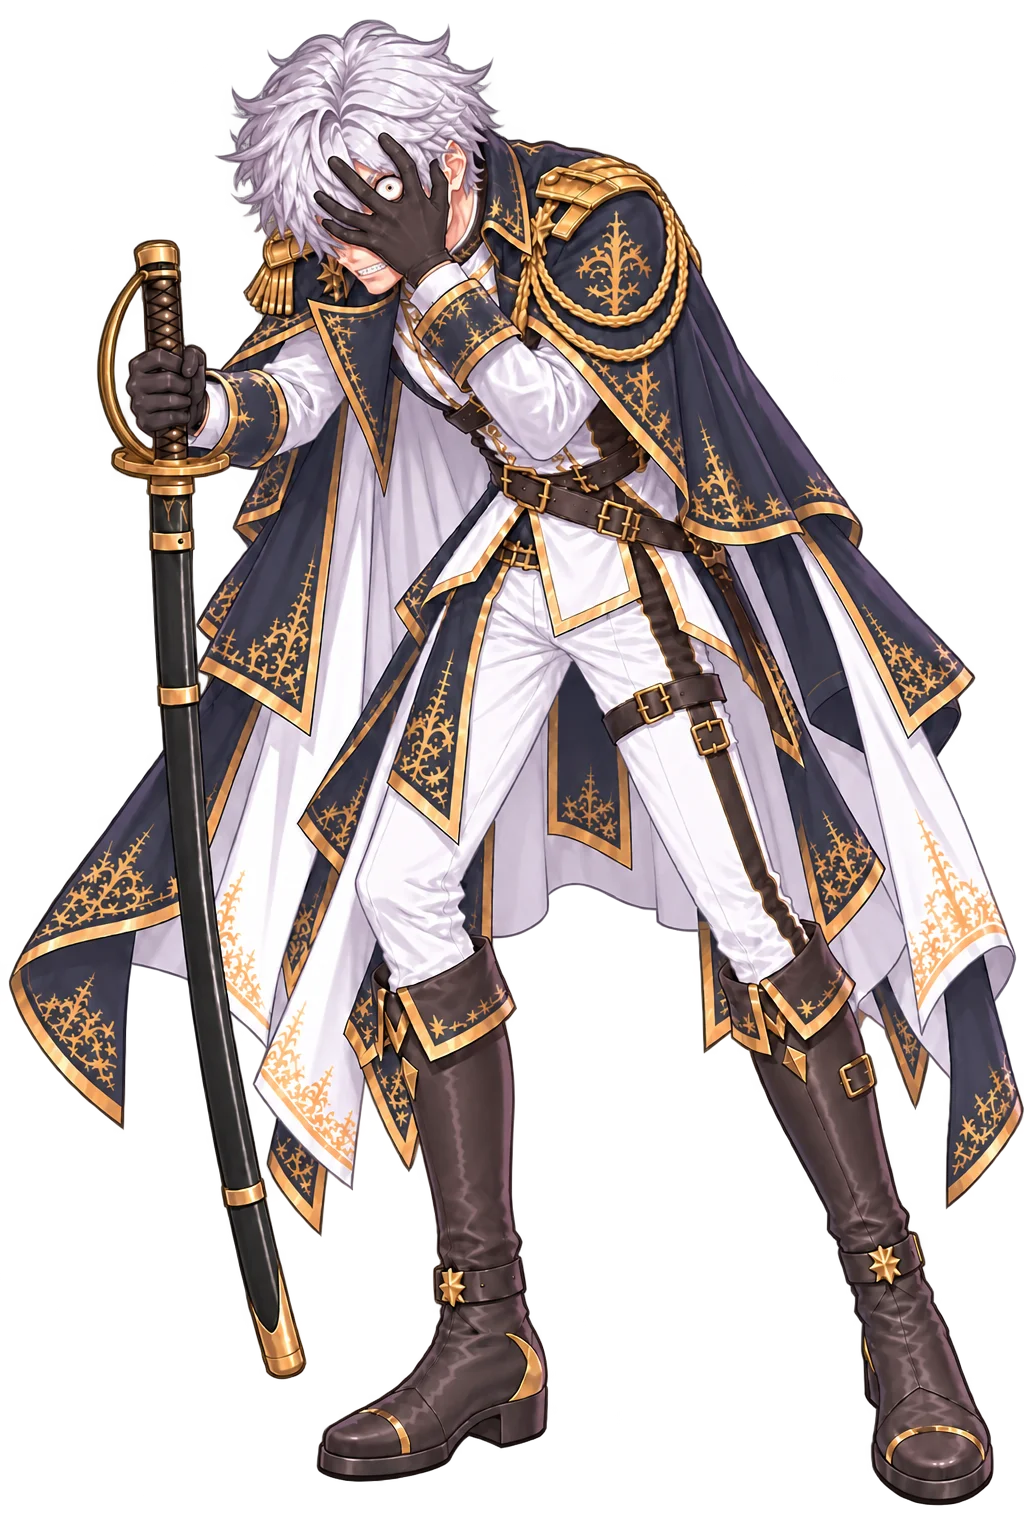
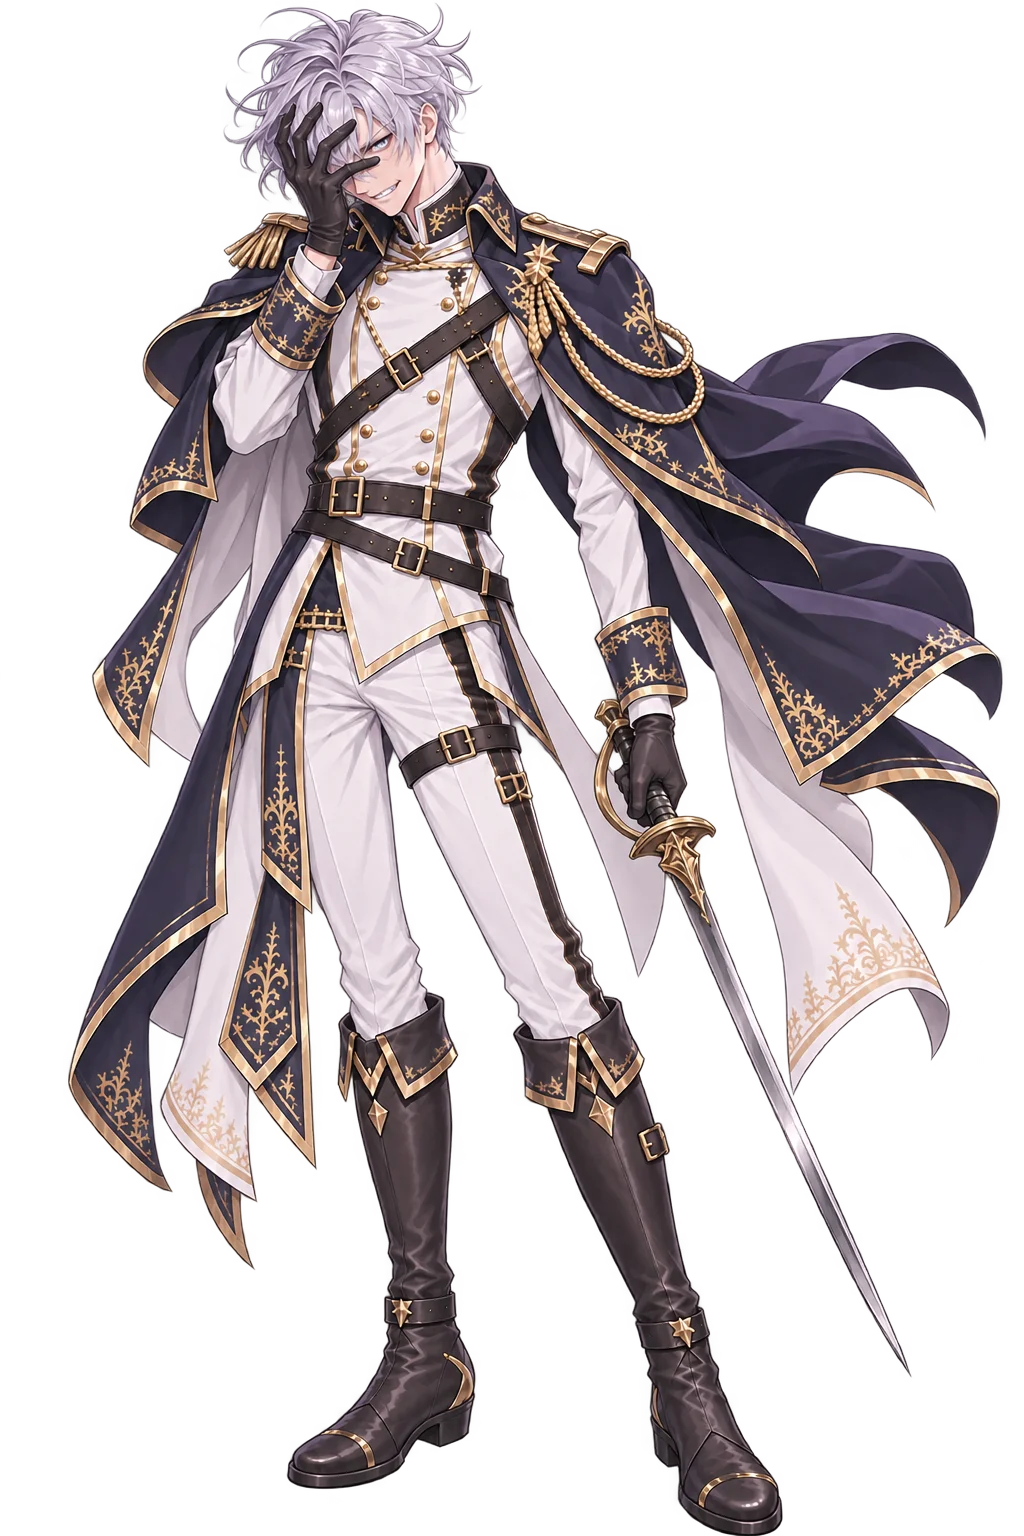
ver -2352 米夏 抓臉／暴走 改用 front 為底重畫：美形的瘋狂與破滅（扣臉冷眼、咬牙冷笑、拔刀），暴走加恨意紅光與碎裂紫光翼

diff --git a/index.html b/index.html
@@ -16,7 +16,7 @@
 <link rel="apple-touch-icon" href="resources/background/tivot_emblem.png?v=9220f8bb">
 <title>TIVOT</title>
 <!-- 全域鎖直向（真鎖 + 橫向擋板）；classic script，需在版面就緒前掛上 -->
-<script src="orientation.js?v=2351"></script>
+<script src="orientation.js?v=2352"></script>
 <!-- 離線包（ver -2256）：註冊 sw.js；主畫面 App 裡出現「下載離線包」鈕 -->
 <script src="offline.js"></script>
 <!-- ══ 效能探針・計數層（ver -850，Ray：「沒有辦法寫一個偵測程式進去看是什麼
@@ -65,74 +65,74 @@
 <script type="importmap">
 {
   "imports": {
-    "./audio.js": "./audio.js?v=2351",
-    "./config.js": "./config.js?v=2351",
-    "./i18n.js": "./i18n.js?v=2351",
-    "./main.js": "./main.js?v=2351",
-    "./offline.js": "./offline.js?v=2351",
-    "./orientation.js": "./orientation.js?v=2351",
-    "./state.js": "./state.js?v=2351",
-    "./sw.js": "./sw.js?v=2351",
-    "./telemetry.js": "./telemetry.js?v=2351",
-    "./modules/beatpick.js": "./modules/beatpick.js?v=2351",
-    "./modules/blink.js": "./modules/blink.js?v=2351",
-    "./modules/breath.js": "./modules/breath.js?v=2351",
-    "./modules/combat.js": "./modules/combat.js?v=2351",
-    "./modules/defense.js": "./modules/defense.js?v=2351",
-    "./modules/enemy.js": "./modules/enemy.js?v=2351",
-    "./modules/eyefx.js": "./modules/eyefx.js?v=2351",
-    "./modules/gear.js": "./modules/gear.js?v=2351",
-    "./modules/groundShadow.js": "./modules/groundShadow.js?v=2351",
-    "./modules/haptics.js": "./modules/haptics.js?v=2351",
-    "./modules/inn.js": "./modules/inn.js?v=2351",
-    "./modules/inspector.js": "./modules/inspector.js?v=2351",
-    "./modules/loot.js": "./modules/loot.js?v=2351",
-    "./modules/partner.js": "./modules/partner.js?v=2351",
-    "./modules/saint.js": "./modules/saint.js?v=2351",
-    "./modules/sakura.js": "./modules/sakura.js?v=2351",
-    "./modules/save.js": "./modules/save.js?v=2351",
-    "./modules/settings.js": "./modules/settings.js?v=2351",
-    "./modules/story.js": "./modules/story.js?v=2351",
-    "./modules/sway.js": "./modules/sway.js?v=2351",
-    "./modules/tone.js": "./modules/tone.js?v=2351",
-    "./modules/town.js": "./modules/town.js?v=2351",
-    "./modules/transition.js": "./modules/transition.js?v=2351",
-    "./modules/tutorial.js": "./modules/tutorial.js?v=2351",
-    "./modules/weapon.js": "./modules/weapon.js?v=2351",
-    "./script/bg_index.js": "./script/bg_index.js?v=2351",
-    "./script/blink.js": "./script/blink.js?v=2351",
-    "./script/clock.js": "./script/clock.js?v=2351",
-    "./script/enemies.js": "./script/enemies.js?v=2351",
-    "./script/evaluation.js": "./script/evaluation.js?v=2351",
-    "./script/eyefx.js": "./script/eyefx.js?v=2351",
-    "./script/inventory.js": "./script/inventory.js?v=2351",
-    "./script/loadout.js": "./script/loadout.js?v=2351",
-    "./script/mainScript.js": "./script/mainScript.js?v=2351",
-    "./script/progress.js": "./script/progress.js?v=2351",
-    "./script/shopcards.js": "./script/shopcards.js?v=2351",
-    "./script/shopstock.js": "./script/shopstock.js?v=2351",
-    "./script/speakers.js": "./script/speakers.js?v=2351",
-    "./script/sway.js": "./script/sway.js?v=2351",
-    "./script/town.js": "./script/town.js?v=2351",
-    "./script/weapons.js": "./script/weapons.js?v=2351",
-    "./i18n/en.js": "./i18n/en.js?v=2351",
-    "./i18n/es.js": "./i18n/es.js?v=2351",
-    "./i18n/ja.js": "./i18n/ja.js?v=2351",
-    "./i18n/scriptTr.js": "./i18n/scriptTr.js?v=2351",
-    "./i18n/zh.js": "./i18n/zh.js?v=2351",
-    "./i18n/script/es.classic.js": "./i18n/script/es.classic.js?v=2351",
-    "./i18n/script/es.js": "./i18n/script/es.js?v=2351",
-    "./i18n/ui/es.classic.js": "./i18n/ui/es.classic.js?v=2351",
-    "./i18n/ui/es.js": "./i18n/ui/es.js?v=2351"
+    "./audio.js": "./audio.js?v=2352",
+    "./config.js": "./config.js?v=2352",
+    "./i18n.js": "./i18n.js?v=2352",
+    "./main.js": "./main.js?v=2352",
+    "./offline.js": "./offline.js?v=2352",
+    "./orientation.js": "./orientation.js?v=2352",
+    "./state.js": "./state.js?v=2352",
+    "./sw.js": "./sw.js?v=2352",
+    "./telemetry.js": "./telemetry.js?v=2352",
+    "./modules/beatpick.js": "./modules/beatpick.js?v=2352",
+    "./modules/blink.js": "./modules/blink.js?v=2352",
+    "./modules/breath.js": "./modules/breath.js?v=2352",
+    "./modules/combat.js": "./modules/combat.js?v=2352",
+    "./modules/defense.js": "./modules/defense.js?v=2352",
+    "./modules/enemy.js": "./modules/enemy.js?v=2352",
+    "./modules/eyefx.js": "./modules/eyefx.js?v=2352",
+    "./modules/gear.js": "./modules/gear.js?v=2352",
+    "./modules/groundShadow.js": "./modules/groundShadow.js?v=2352",
+    "./modules/haptics.js": "./modules/haptics.js?v=2352",
+    "./modules/inn.js": "./modules/inn.js?v=2352",
+    "./modules/inspector.js": "./modules/inspector.js?v=2352",
+    "./modules/loot.js": "./modules/loot.js?v=2352",
+    "./modules/partner.js": "./modules/partner.js?v=2352",
+    "./modules/saint.js": "./modules/saint.js?v=2352",
+    "./modules/sakura.js": "./modules/sakura.js?v=2352",
+    "./modules/save.js": "./modules/save.js?v=2352",
+    "./modules/settings.js": "./modules/settings.js?v=2352",
+    "./modules/story.js": "./modules/story.js?v=2352",
+    "./modules/sway.js": "./modules/sway.js?v=2352",
+    "./modules/tone.js": "./modules/tone.js?v=2352",
+    "./modules/town.js": "./modules/town.js?v=2352",
+    "./modules/transition.js": "./modules/transition.js?v=2352",
+    "./modules/tutorial.js": "./modules/tutorial.js?v=2352",
+    "./modules/weapon.js": "./modules/weapon.js?v=2352",
+    "./script/bg_index.js": "./script/bg_index.js?v=2352",
+    "./script/blink.js": "./script/blink.js?v=2352",
+    "./script/clock.js": "./script/clock.js?v=2352",
+    "./script/enemies.js": "./script/enemies.js?v=2352",
+    "./script/evaluation.js": "./script/evaluation.js?v=2352",
+    "./script/eyefx.js": "./script/eyefx.js?v=2352",
+    "./script/inventory.js": "./script/inventory.js?v=2352",
+    "./script/loadout.js": "./script/loadout.js?v=2352",
+    "./script/mainScript.js": "./script/mainScript.js?v=2352",
+    "./script/progress.js": "./script/progress.js?v=2352",
+    "./script/shopcards.js": "./script/shopcards.js?v=2352",
+    "./script/shopstock.js": "./script/shopstock.js?v=2352",
+    "./script/speakers.js": "./script/speakers.js?v=2352",
+    "./script/sway.js": "./script/sway.js?v=2352",
+    "./script/town.js": "./script/town.js?v=2352",
+    "./script/weapons.js": "./script/weapons.js?v=2352",
+    "./i18n/en.js": "./i18n/en.js?v=2352",
+    "./i18n/es.js": "./i18n/es.js?v=2352",
+    "./i18n/ja.js": "./i18n/ja.js?v=2352",
+    "./i18n/scriptTr.js": "./i18n/scriptTr.js?v=2352",
+    "./i18n/zh.js": "./i18n/zh.js?v=2352",
+    "./i18n/script/es.classic.js": "./i18n/script/es.classic.js?v=2352",
+    "./i18n/script/es.js": "./i18n/script/es.js?v=2352",
+    "./i18n/ui/es.classic.js": "./i18n/ui/es.classic.js?v=2352",
+    "./i18n/ui/es.js": "./i18n/ui/es.js?v=2352"
   }
 }
 </script>
 <!-- BUST:END -->
-<link rel="stylesheet" href="style.css?v=2351">
+<link rel="stylesheet" href="style.css?v=2352">
   <!-- 拾得道具／道具欄／商店／懸賞榜（ver -380 抽出，飛行頁共用同一份）。
        ⚠ `data-lootsheet` 是給 `modules/loot.js` 認的：它看到已經掛過就不再掛一次。
          飛行頁沒有這一行，由那支模組自己掛上去。 -->
-  <link rel="stylesheet" href="css/lootsheet.css?v=2351" data-lootsheet="1">
+  <link rel="stylesheet" href="css/lootsheet.css?v=2352" data-lootsheet="1">
 <!-- 主畫面 App（standalone）偵測：首繪前在 <html> 蓋 .standalone，
      供 CSS 修 iOS 26 版面視窗少算頂部安全區高度（底部露黑帶）的問題 -->
 <script>
@@ -778,6 +778,6 @@
      ⚠ src 是**按下去才給**的（lazy）：不然每次開機都要多載一整個飛行頁。 -->
 <iframe id="flightFrame" title="飛行"></iframe>
 
-<script type="module" src="main.js?v=2351"></script>
+<script type="module" src="main.js?v=2352"></script>
 </body>
 </html>

diff --git a/flight/index.html b/flight/index.html
@@ -3,7 +3,7 @@
 <head>
 <meta charset="utf-8">
 <meta name="viewport" content="width=device-width,initial-scale=1,maximum-scale=1,user-scalable=no,viewport-fit=cover">
-<script src="../orientation.js?v=2351"></script>
+<script src="../orientation.js?v=2352"></script>
 <script>
 /* 介面字譯文（ver -1909）：這一頁是非模組，程式一開跑就讀字串 —— 所以譯文表要**同步**載
    （document.write，只在選了有譯文的語言時）。語言判定與 i18n.js 的 LANG 同一套
@@ -11,7 +11,7 @@
 (function(){
   var l=null; try{ l=localStorage.getItem('tivot.lang'); }catch(e){}
   if(!l){ try{ var n=(navigator.languages&&navigator.languages[0])||navigator.language||''; if(String(n).toLowerCase().indexOf('es')===0) l='es'; }catch(e){} }
-  if(['es'].indexOf(l)>=0) document.write('<script src="../i18n/script/'+l+'.classic.js?v=2351"><\/script><script src="../i18n/ui/'+l+'.classic.js?v=2351"><\/script>');
+  if(['es'].indexOf(l)>=0) document.write('<script src="../i18n/script/'+l+'.classic.js?v=2352"><\/script><script src="../i18n/ui/'+l+'.classic.js?v=2352"><\/script>');
 })();
 function i18nT(s){ var t=window.__TIVOT_TR; return (t && typeof s==='string' && t[s]!=null) ? t[s] : s; }
 document.addEventListener('DOMContentLoaded', function(){
@@ -236,7 +236,7 @@ document.addEventListener('DOMContentLoaded', function(){
   /* ver -2217：門圖含楣（kerberos_gate，＝主遊戲同一張）—— 底圖往上延伸到楣的上緣（--fk-gate-top，負值，layoutFKerb 寫）。
      畫在 ::before：門的子元素（紋章／箭／鉚釘）排在它之後，自然疊在上面。 */
   #fkerbDoor::before{content:'';position:absolute;left:0;right:0;top:var(--fk-gate-top,0px);bottom:0;
-    background-image:url('../resources/vfx/kerberos_gate.webp?v=2351');
+    background-image:url('../resources/vfx/kerberos_gate.webp?v=2352');
     background-repeat:no-repeat;background-size:100% 100%;pointer-events:none;}
   #fkerb.rise #fkerbDoor{transform:translateY(calc(var(--fkerb-rise,0px) * -1));}
   /* 楣與其餘零件：全部是門的子元素＝同一剛體，門上推它們跟著上去
@@ -259,8 +259,8 @@ document.addEventListener('DOMContentLoaded', function(){
       radial-gradient(circle at 50% 22%, rgba(0,0,0,.72) 40%, rgba(0,0,0,0) 78%);
     box-shadow:inset 0 3px 7px rgba(0,0,0,.85);}
   #fkerbGear .fkg-shine{position:absolute;inset:0;mix-blend-mode:screen;opacity:.8;
-    -webkit-mask-image:url("../resources/vfx/kerberos_gear.webp?v=2351");
-    mask-image:url("../resources/vfx/kerberos_gear.webp?v=2351");
+    -webkit-mask-image:url("../resources/vfx/kerberos_gear.webp?v=2352");
+    mask-image:url("../resources/vfx/kerberos_gear.webp?v=2352");
     -webkit-mask-size:100% 100%;mask-size:100% 100%;
     -webkit-mask-repeat:no-repeat;mask-repeat:no-repeat;
     background:linear-gradient(114deg,
@@ -280,8 +280,8 @@ document.addEventListener('DOMContentLoaded', function(){
     filter:drop-shadow(0 3px 7px rgba(0,0,0,.9)) drop-shadow(0 0 2px rgba(0,0,0,.8));}
   #fkerbPend .fkp-shine{position:absolute;inset:0;pointer-events:none;
     mix-blend-mode:screen;opacity:.85;
-    -webkit-mask-image:url("../resources/vfx/kerberos_pendant.webp?v=2351");
-    mask-image:url("../resources/vfx/kerberos_pendant.webp?v=2351");
+    -webkit-mask-image:url("../resources/vfx/kerberos_pendant.webp?v=2352");
+    mask-image:url("../resources/vfx/kerberos_pendant.webp?v=2352");
     -webkit-mask-size:100% 100%;mask-size:100% 100%;
     -webkit-mask-repeat:no-repeat;mask-repeat:no-repeat;
     background:linear-gradient(114deg,
@@ -646,23 +646,23 @@ img:not([src]), img[src=""], img.img-broken{visibility:hidden !important;}
        ⚠ 要有，否則交棒那一格齒輪會憑空冒出來（同吊墜的理由）。
        ⚠ 排在 `.fk-plate` 之前 ＝ 團徽之下、槍棺之上。 -->
   <div id="fkerbGear"><i class="fkg-well"></i>
-    <img src="../resources/vfx/kerberos_gear.webp?v=2351" alt=""><i class="fkg-shine"></i></div>
+    <img src="../resources/vfx/kerberos_gear.webp?v=2352" alt=""><i class="fkg-shine"></i></div>
   <div id="fkerbGearSm"><i class="fkg-well"></i>
-    <img src="../resources/vfx/kerberos_gear.webp?v=2351" alt=""></div>
-  <img class="fk-plate" src="../resources/vfx/kerberos_plate.webp?v=2351" alt="">
-  <img class="fk-arrow n" src="../resources/vfx/kerberos_arrow.webp?v=2351" alt="">
-  <img class="fk-arrow e" src="../resources/vfx/kerberos_arrow.webp?v=2351" alt="">
-  <img class="fk-arrow s" src="../resources/vfx/kerberos_arrow.webp?v=2351" alt="">
-  <img class="fk-arrow w" src="../resources/vfx/kerberos_arrow.webp?v=2351" alt="">
-  <img class="fk-rivet r10" src="../resources/vfx/kerberos_rivet.webp?v=2351" alt="">
-  <img class="fk-rivet r2"  src="../resources/vfx/kerberos_rivet.webp?v=2351" alt="">
-  <img class="fk-rivet r4"  src="../resources/vfx/kerberos_rivet.webp?v=2351" alt="">
-  <img class="fk-rivet r8"  src="../resources/vfx/kerberos_rivet.webp?v=2351" alt="">
+    <img src="../resources/vfx/kerberos_gear.webp?v=2352" alt=""></div>
+  <img class="fk-plate" src="../resources/vfx/kerberos_plate.webp?v=2352" alt="">
+  <img class="fk-arrow n" src="../resources/vfx/kerberos_arrow.webp?v=2352" alt="">
+  <img class="fk-arrow e" src="../resources/vfx/kerberos_arrow.webp?v=2352" alt="">
+  <img class="fk-arrow s" src="../resources/vfx/kerberos_arrow.webp?v=2352" alt="">
+  <img class="fk-arrow w" src="../resources/vfx/kerberos_arrow.webp?v=2352" alt="">
+  <img class="fk-rivet r10" src="../resources/vfx/kerberos_rivet.webp?v=2352" alt="">
+  <img class="fk-rivet r2"  src="../resources/vfx/kerberos_rivet.webp?v=2352" alt="">
+  <img class="fk-rivet r4"  src="../resources/vfx/kerberos_rivet.webp?v=2352" alt="">
+  <img class="fk-rivet r8"  src="../resources/vfx/kerberos_rivet.webp?v=2352" alt="">
   <!-- 吊墜（ver -412）：與主遊戲同一套（見 index.html 的 #kerbPend 與 style.css）。
        ⚠ 這一頁**必須也有** —— 遭遇時門是在這裡推上來的，交棒之後主遊戲那一半才接手；
          只有一邊掛吊墜的話，交棒那一格會憑空多出一個東西。 -->
   <div id="fkerbPend"><div class="fkp-swing"><div class="fkp-idle">
-    <img src="../resources/vfx/kerberos_pendant.webp?v=2351" alt=""><i class="fkp-shine"></i>
+    <img src="../resources/vfx/kerberos_pendant.webp?v=2352" alt=""><i class="fkp-shine"></i>
   </div></div></div>
 </div></div>
 <div id="boot">
@@ -684,11 +684,11 @@ img:not([src]), img[src=""], img.img-broken{visibility:hidden !important;}
   <div id="bMsg"><small id="bootMsg"></small></div>
 </div>
 
-<script src="settlement.js?v=2351"></script>
+<script src="settlement.js?v=2352"></script>
 <!-- 閒聊對話的**內容**獨立成一支：方便加台詞、加觸發條件而不必碰引擎。
      ⚠ 一般 <script>（非 module）→ TALKS / talkPeriod / talkPick 是全域，
        而且會在下面這段 inline 之前執行完，所以 inline 內可以直接用。 -->
-<script src="talks.js?v=2351"></script>
+<script src="talks.js?v=2352"></script>
 <script>
 /* 破圖框一律不畫（ver -1881，同主頁 main.js 那一支，這一頁是另一個 document）。 */
 document.addEventListener('error', e=>{ const t=e.target; if(t && t.tagName==='IMG') t.classList.add('img-broken'); }, true);
@@ -764,7 +764,7 @@ const COLOR_URL  = 'silvermoon_terrain.png?v=b18827be'  + TERRAIN_V;
    以前是手寫的，於是從 -911 起就沒有人記得動它 —— 而 HUD 上的版本號正是 Ray
    在手機上確認「我現在跑的是哪一版」的唯一依據（鐵律 7：一個量一個計算點；
    ver -626：版本號不動就等於沒有版本號）。**不要手改。** */
-const FLIGHT_VER = 'ver -2351';
+const FLIGHT_VER = 'ver -2352';
 const MAP_SCALE  = 20;
 const INV_SCALE  = 1/MAP_SCALE;
 const PEAK_SCALE = 520;   // 高度圖 255 對應的世界高度（越大山越陡）

diff --git a/script/speakers.js b/script/speakers.js
@@ -1657,8 +1657,8 @@ export const ART = {
     draw:       { src:'resources/si/misha_si_draw.webp?v=68b1b653', top:6, bot:1534, fx:0.434 },   // ver -1728：Ray 新出的拔刀圖（姿勢換了，取景重量；美術 09-25）
     salute:     { src:'resources/si/misha_si_salute.webp', top:9, bot:1520, fx:0.447 },
     side:       { src:'resources/si/misha_si_side.webp', top:16, bot:1512, fx:0.37 },
-    '暴走':     { blink:'off', rescale:true, src:'resources/si/misha_si_coverfaceni.webp?v=3909aabc', top:176, bot:1230, fx:0.303 },   // ver -2351（Ray）：方形畫布 1254²（光翼才畫得完整）；正常比例的手（不帶裂紋）、咬牙、恨而銳利的紅光眼、大幅噴湧的碎裂紫光翼；top/bot 量人不量翼
-    '抓臉':     { blink:'off', src:'resources/si/misha_si_coverface.webp?v=b2d1ef48', top:20, bot:1505, fx:0.400 },   // ver -2351（Ray）：手掌蓋住半張臉、指縫露出暴走的眼、咬牙（wound 為底，畫風照原圖）
+    '暴走':     { blink:'off', rescale:true, src:'resources/si/misha_si_coverfaceni.webp?v=70bda315', top:16, bot:1224, fx:0.263 },   // ver -2352（Ray）：抓臉那張＋恨意紅光眼、臉頰裂紋、左後方碎裂紫光翼（方形 1254²）；top/bot 量人不量翼
+    '抓臉':     { blink:'off', src:'resources/si/misha_si_coverface.webp?v=f3fb02f9', top:12, bot:1487, fx:0.361 },   // ver -2352（Ray）：front 為底，美形的瘋狂與破滅 —— 手扣半臉、指縫冷眼、咬牙冷笑、拔刀斜指地面
     wound:      { fxShift:0, blink:'off', src:'resources/si/misha_si_wound.webp?v=3a49219d', top:34, bot:1499, fx:0.403 },
     close:      { src:'resources/si/misha_si_close.webp?v=47dd4349', top:14, bot:1509, fx:0.469 },
     back:       { src:'resources/si/misha_si_back.webp', top:12, bot:1496, fx:0.458 },

diff --git a/config.js b/config.js
@@ -87,7 +87,7 @@ export const HITFX = {
  *     以為是快取卡住 —— 版本號不動就等於沒有版本號）。
  *  ⚠ 它同時是**暖開機戳記的鑰匙**（main.js 的 `WARM_BOOT`）：版本一變，
  *    上一版的戳記就失效 → 下一次開機重跑完整讀取。那正是改版後該有的行為。 */
-export const VERSION = 'ver 2026.11.01-2351';
+export const VERSION = 'ver 2026.11.01-2352';
 
 /* ══ 空中怪 16 隻的戰鬥卡（ver -2268）══ 每一隻一張 `flight_<鍵>`（飛行頁 `battleIdFor` 的命名），
    內容同羽蛇那一場：船戰、艦載武器音、連射間隔 180ms。⚠ 這份鍵清單在三處：這裡／
@@ -6152,8 +6152,8 @@ export const ASSET_VER = {
   'misha_si_closeopen': '102292c5',
   'misha_si_closeopen_closed': '658c29c2',
   'misha_si_closeopen_half': '0379d48b',
-  'misha_si_coverface': 'b2d1ef48',
-  'misha_si_coverfaceni': '3909aabc',
+  'misha_si_coverface': 'f3fb02f9',
+  'misha_si_coverfaceni': '70bda315',
   'misha_si_draw': '68b1b653',
   'misha_si_draw_closed': 'ff69810f',
   'misha_si_draw_half': '45f86f5a',

diff --git a/modules/story.js b/modules/story.js
@@ -3588,7 +3588,7 @@ const KERB_DIR='resources/vfx/';
    cache-buster（§5：檔名沒變、內容變了，瀏覽器照樣拿舊的那一份，而症狀只是
    「看起來沒變」）。版本號由 `tools/bust.py` 同步，路徑只由 `kerbUrl()` 組（鐵律 8）——
    飛行頁那一半是另一個 document，各有一份，改一邊要改另一邊。 */
-const KERB_V='?v=2351';
+const KERB_V='?v=2352';
 const kerbUrl=n=>KERB_DIR+n+'.webp'+KERB_V;
 /* 門的圖（ver -2218）：**每一道門都要先載完**（劇情讀取頁 `preloadStory`、城鎮那道 `loadScene`）——
    Ray：「讀圖的時候先跑槍棺出來才讀楣」「往上推的時候楣會消失」：合成後的 `kerberos_gate`（門＋楣）
